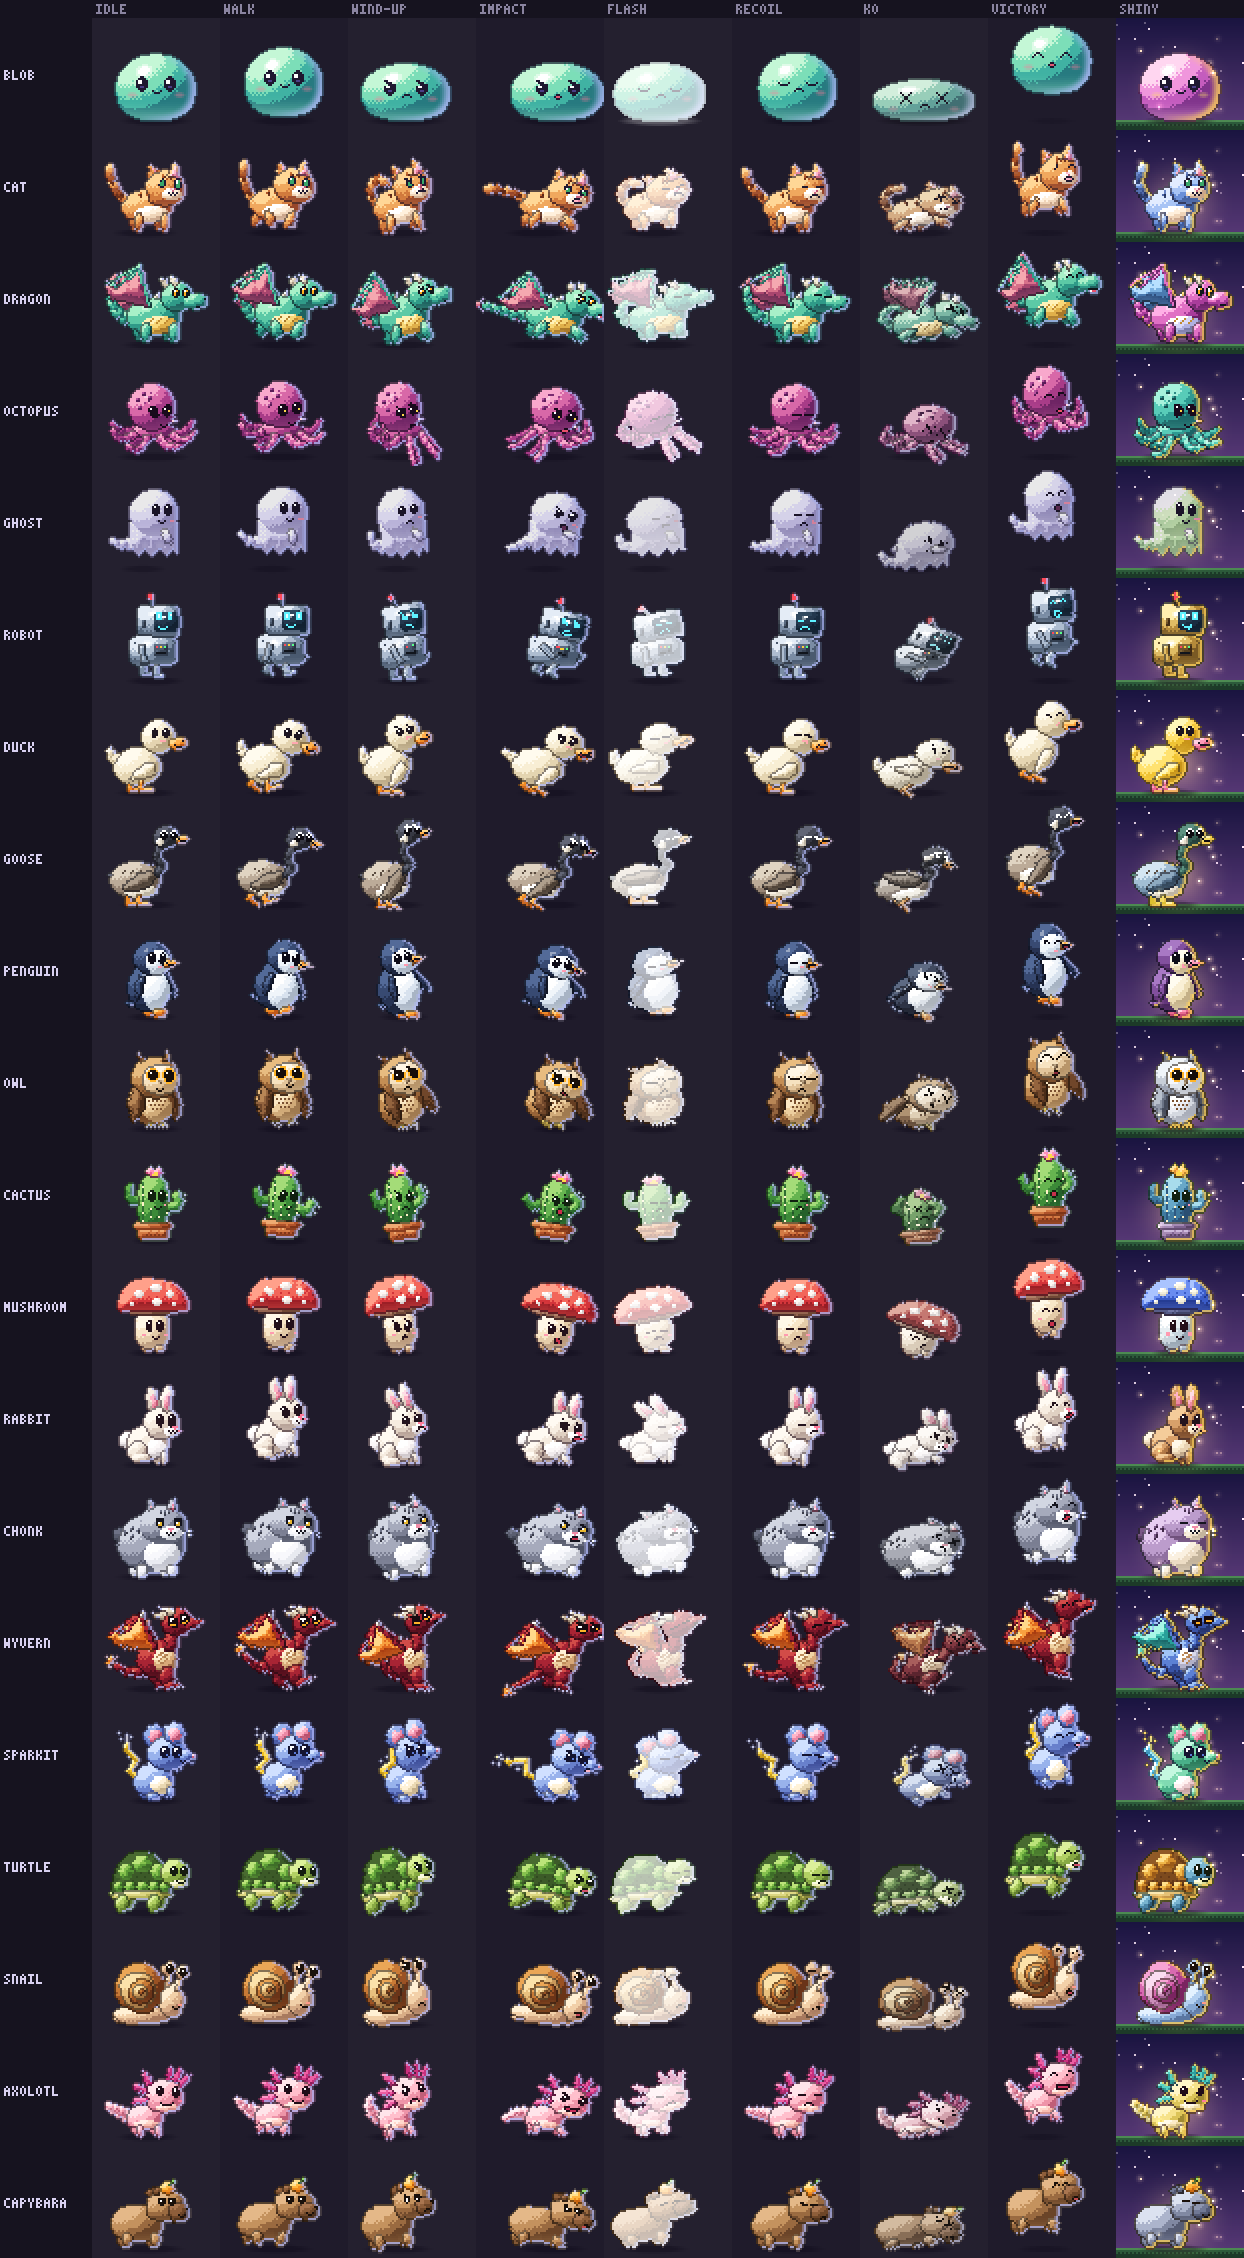
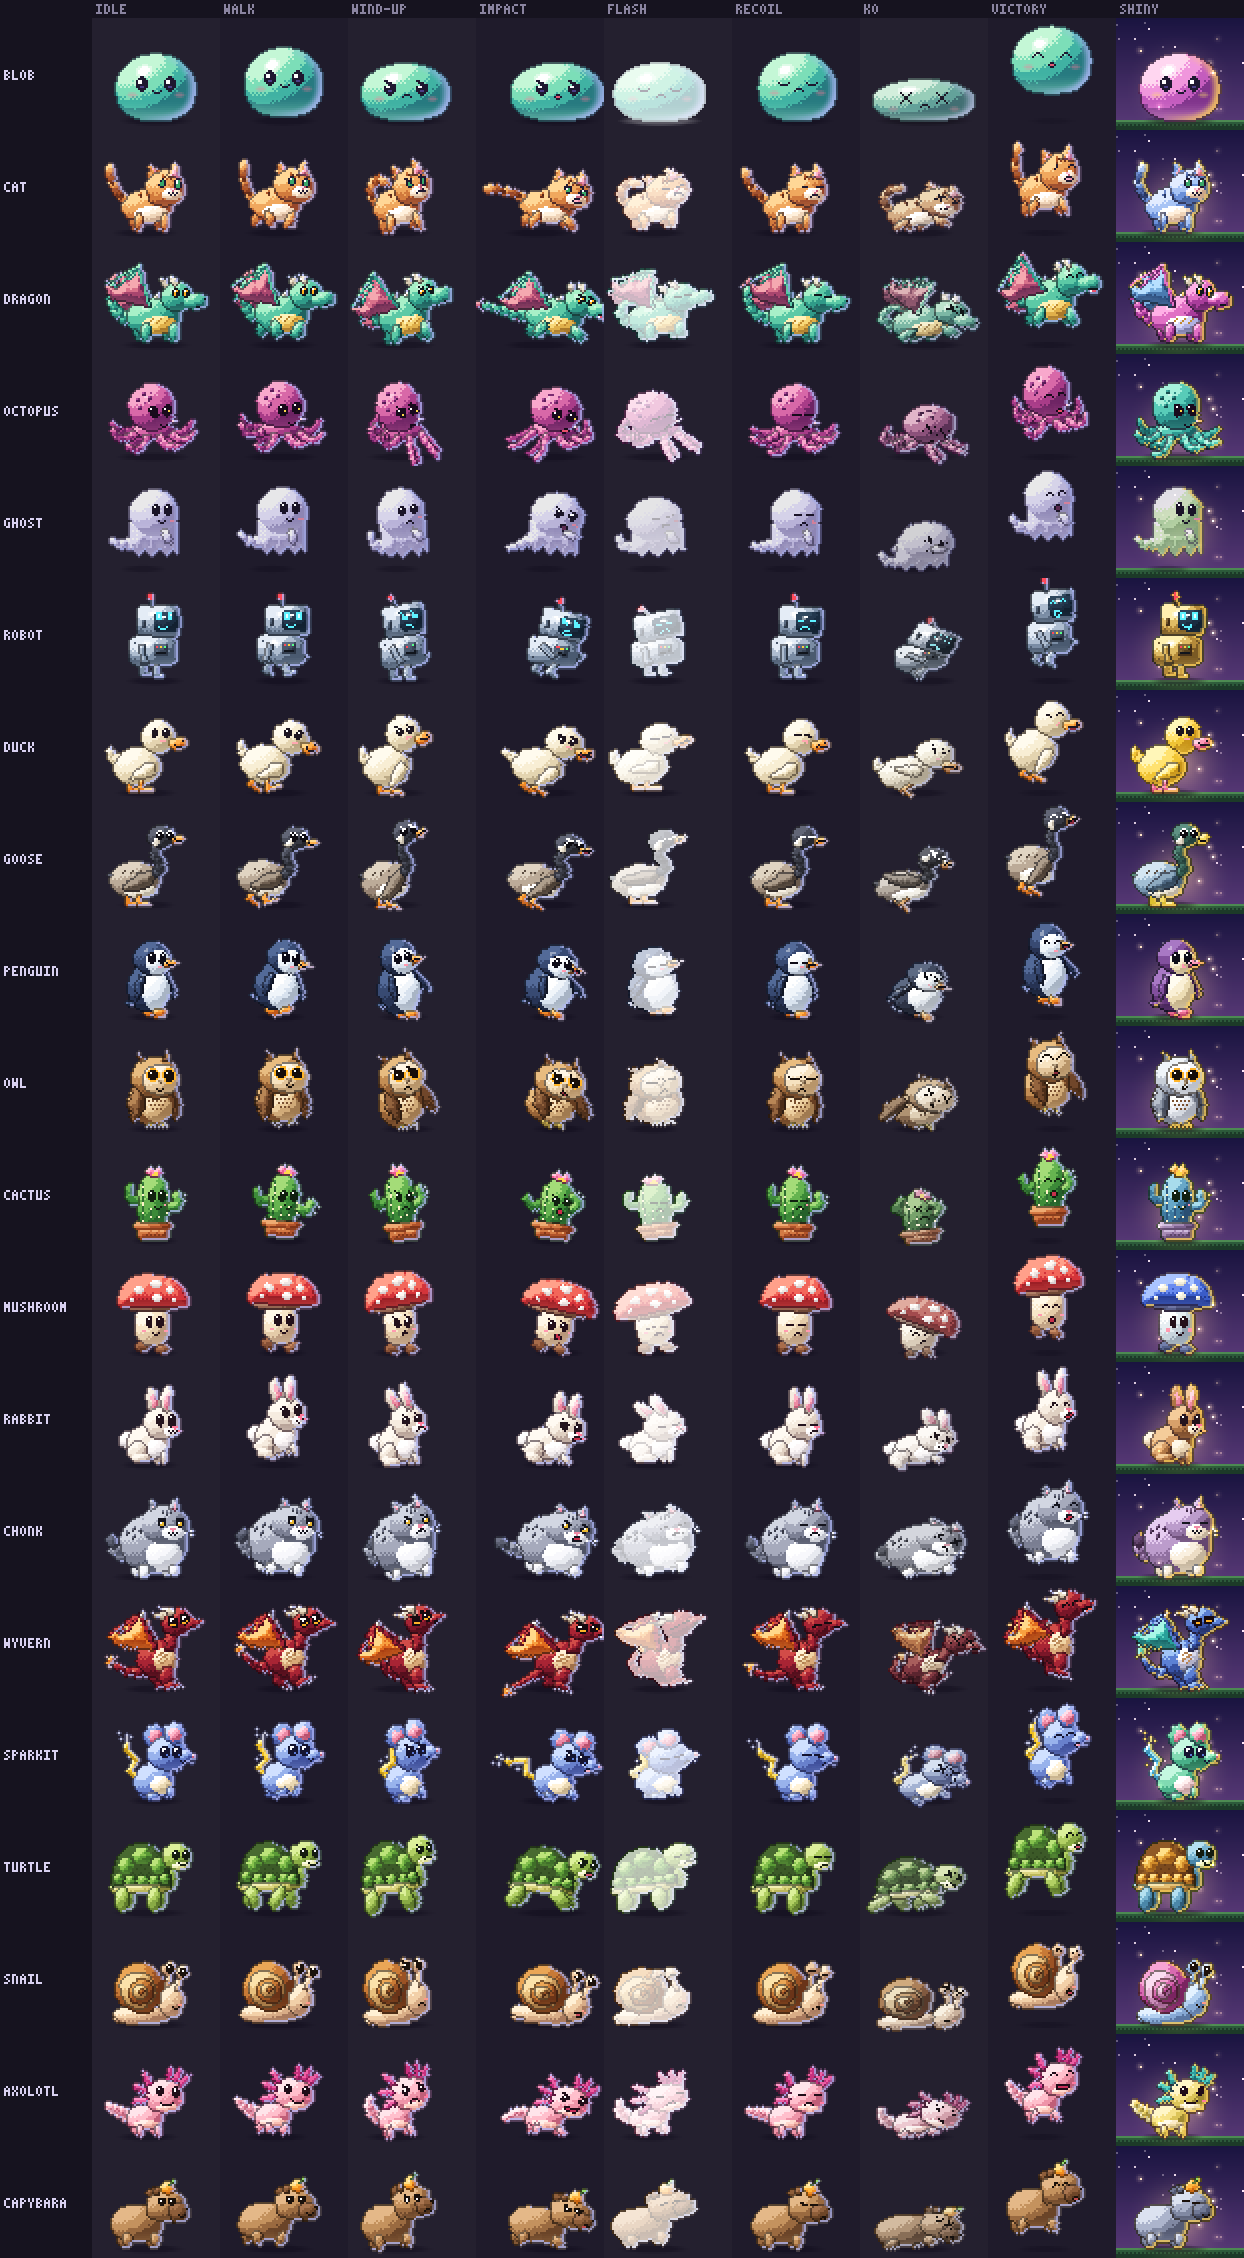
fix(gfx): H6 rig tuning — mushroom feet, chonk tail, turtle height, goose neck
- mushroom: brown feet that poke out either side of a raised stem
- chonk: a thick, dark-tipped tail curling up off the low back
- turtle: stands tortoise-tall on longer legs with its head up on a
  longer neck (top now y 16, in line with the roster)
- goose: a four-segment neck with a clear S-curve

All four stay on canvas through every animation. Golden hashes are
re-recorded for these four species only; the roster sheet is refreshed.

Claude-Session: https://claude.ai/code/session_01SiEL7EAerJXi1DTznVHZHE

diff --git a/server/gfx/species/goose.ts b/server/gfx/species/goose.ts
@@ -1,7 +1,7 @@
 /**
  * HD goose — the tall one (H6). A Canada-style goose facing right: a low
  * grey-brown body with a cream belly and a white tail patch, folded dark
- * wings, and a long S-curved neck built as a chain of three segments rising
+ * wings, and a long S-curved neck built as a chain of four segments rising
  * from the chest to a sooty head with a white chinstrap and an orange beak.
  * The neck segments are plain details (they hold the S); the head rides on
  * the last one with its pivot at the neck end, so it bobs from the throat.
@@ -32,7 +32,7 @@ const MOUTH: Record<string, Shape> = {
 const foot: Shape = { kind: "poly", pts: [[0.5, 0], [3, 0], [3, 3.5], [7, 3.6], [8, 6], [0, 6], [0, 3.5]], mat: "o" };
 /** Folded wing: shoulder at the front, primaries crossing over the tail. */
 const wing: Shape = { kind: "poly", pts: [[17, 0.5], [19.5, 3.5], [18, 7.5], [12, 10], [4, 9.5], [0, 7], [5, 4], [11, 1]], mat: "d" };
-const neckSeg = (rx: number): Shape => ({ kind: "ellipse", rx, ry: 4.3, p: 2.4, mat: "n" });
+const neckSeg = (rx: number): Shape => ({ kind: "ellipse", rx, ry: 4.2, p: 2.2, mat: "n" });
 
 export const GOOSE: RigDef = {
   id: "goose",
@@ -81,11 +81,15 @@ export const GOOSE: RigDef = {
     { name: "tail0", role: "tail", seg: 0, parent: "body", at: [4.5, 7], pivot: [5, 2.5], rot: -0.35, z: 0.3, group: "tail", shape: { kind: "poly", pts: [[0, 0.5], [6, 0], [6, 5], [1.5, 4]], mat: "n" } },
     { name: "tailW", role: "detail", parent: "tail0", at: [1, 3], pivot: [0, 0], z: 0.31, group: "tail", shape: { kind: "grid", rows: [".cccc", "ccccc"] } },
 
-    { name: "neck0", role: "detail", parent: "body", at: [23, 6], pivot: [2.6, 7.6], rot: 0.85, z: 2, group: "neck", shape: neckSeg(2.6) },
-    { name: "neck1", role: "detail", parent: "neck0", at: [2.6, 1.5], pivot: [2.1, 7.6], rot: -1.5, z: 2.01, group: "neck", shape: neckSeg(2.1) },
-    { name: "neck2", role: "detail", parent: "neck1", at: [2.1, 1.5], pivot: [2.1, 7.6], rot: 1.05, z: 2.02, group: "neck", shape: neckSeg(2.1) },
+    // The S: the base swells forward off the breast, the middle sweeps back,
+    // the top curls forward again under the head. Overlapping segments keep
+    // the curve smooth.
+    { name: "neck0", role: "detail", parent: "body", at: [22.5, 6.5], pivot: [3.1, 7.4], rot: 0.85, z: 2, group: "neck", shape: neckSeg(3.1) },
+    { name: "neck1", role: "detail", parent: "neck0", at: [3.1, 3.6], pivot: [2.8, 7.4], rot: -0.8, z: 2.01, group: "neck", shape: neckSeg(2.8) },
+    { name: "neck2", role: "detail", parent: "neck1", at: [2.8, 3.6], pivot: [2.6, 7.4], rot: -0.65, z: 2.02, group: "neck", shape: neckSeg(2.6) },
+    { name: "neck3", role: "detail", parent: "neck2", at: [2.6, 3.6], pivot: [2.5, 7.4], rot: 0.75, z: 2.03, group: "neck", shape: neckSeg(2.5) },
 
-    { name: "head", role: "head", parent: "neck2", at: [2.1, 2], pivot: [4.5, 10], rot: -0.4, z: 3, shape: { kind: "ellipse", rx: 7, ry: 5.8, mat: "n" } },
+    { name: "head", role: "head", parent: "neck3", at: [2.5, 2.4], pivot: [4.5, 10], rot: -0.2, z: 3, shape: { kind: "ellipse", rx: 7, ry: 5.8, mat: "n" } },
     { name: "chin", role: "detail", parent: "head", at: [1.5, 5.5], pivot: [0, 0], z: 3.02, group: "head", shape: { kind: "grid", rows: ["..cc", ".ccc", "cccc", "cccc", ".cc."] } },
     { name: "eyeF", role: "eye", parent: "head", at: [4, 2], pivot: [0, 0], z: 3.25, group: "head", shape: EYE.open, variants: EYE },
     { name: "eyeN", role: "eye", parent: "head", at: [9, 2], pivot: [0, 0], z: 3.25, group: "head", shape: EYE.open, variants: EYE },

diff --git a/server/gfx/species/chonk.ts b/server/gfx/species/chonk.ts
@@ -30,7 +30,7 @@ const MOUTH: Record<string, Shape> = {
 const stub: Shape = { kind: "ellipse", rx: 3, ry: 3, mat: "c" };
 const ear: Shape = { kind: "poly", pts: [[0, 6], [2.8, 0], [4.2, 0], [7, 6]], mat: "f" };
 const earInner: Shape = { kind: "poly", pts: [[0, 3.6], [1.7, 0], [3.4, 3.6]], mat: "q" };
-const tailSeg: Shape = { kind: "ellipse", rx: 3.2, ry: 3.6, mat: "f" };
+const tailSeg = (rx: number, mat = "f"): Shape => ({ kind: "ellipse", rx, ry: 3.8, mat });
 
 export const CHONK: RigDef = {
   id: "chonk",
@@ -61,7 +61,7 @@ export const CHONK: RigDef = {
     p: { ramp: ramp("#c8304a"), flat: true },
   },
   parts: [
-    { name: "body", role: "body", at: [30, 35], pivot: [17, 15], z: 1, group: "body", shape: { kind: "ellipse", rx: 17, ry: 15, mat: "f" } },
+    { name: "body", role: "body", at: [31, 35], pivot: [17, 15], z: 1, group: "body", shape: { kind: "ellipse", rx: 17, ry: 15, mat: "f" } },
     { name: "belly", role: "belly", parent: "body", at: [22, 21], pivot: [9.5, 7.5], z: 1.1, group: "body", shape: { kind: "ellipse", rx: 9.5, ry: 7.5, mat: "c" } },
     {
       name: "stripes",
@@ -79,8 +79,10 @@ export const CHONK: RigDef = {
     { name: "legBN", role: "legB", side: 1, parent: "body", at: [12, 26.5], pivot: [3, 1], z: 1.5, shape: stub },
     { name: "legFN", role: "legF", side: 1, parent: "body", at: [27, 26], pivot: [3, 1], z: 1.5, shape: stub },
 
-    { name: "tail0", role: "tail", seg: 0, parent: "body", at: [3.5, 16], pivot: [3.2, 5.5], rot: -0.75, z: 0.3, group: "tail", shape: tailSeg },
-    { name: "tail1", role: "tail", seg: 1, parent: "tail0", at: [3.2, 2], pivot: [3.2, 5.5], rot: 0.35, z: 0.31, group: "tail", shape: { kind: "ellipse", rx: 3, ry: 3.4, mat: "s" } },
+    // A thick, short tail: out from the low back, curling up, dark-tipped.
+    { name: "tail0", role: "tail", seg: 0, parent: "body", at: [3, 21], pivot: [3.6, 6], rot: -1.3, z: 0.3, group: "tail", shape: tailSeg(3.6) },
+    { name: "tail1", role: "tail", seg: 1, parent: "tail0", at: [3.6, 1.8], pivot: [3.3, 6], rot: 0.55, z: 0.31, group: "tail", shape: tailSeg(3.3) },
+    { name: "tail2", role: "tail", seg: 2, parent: "tail1", at: [3.3, 1.8], pivot: [3, 6], rot: 0.6, z: 0.32, group: "tail", shape: tailSeg(3, "s") },
 
     { name: "head", role: "head", parent: "body", at: [23, 12], pivot: [12, 15], z: 2, group: "body", shape: { kind: "ellipse", rx: 12, ry: 9, p: 2.2, mat: "f" } },
     { name: "forehead", role: "detail", parent: "head", at: [9.5, 1.5], pivot: [0, 0], z: 2.02, group: "body", shape: { kind: "grid", rows: ["s.s.s", "s.s.s", "..s.."] } },

diff --git a/server/gfx/species/mushroom.ts b/server/gfx/species/mushroom.ts
@@ -3,7 +3,7 @@
  * cap with white spots (the `head`, pivoting at the top of the stem so it
  * bobs and tips like a hat), a darker gill band peeking out under its rim,
  * and a cream stem that is the body. Like the ASCII buddy, the face sits on
- * the stem, under the cap; two tiny feet (`legB`) shuffle underneath.
+ * the stem, under the cap; two little brown feet (`legB`) poke out on either side and shuffle.
  */
 
 import type { RigDef, Shape } from "../rig.ts";
@@ -40,7 +40,8 @@ function dome(rx: number, ry: number, mat: string): Shape {
   return { kind: "poly", pts, mat };
 }
 
-const foot: Shape = { kind: "ellipse", rx: 3, ry: 2, mat: "f" };
+/** A little brown boot-foot, wider than tall. */
+const foot: Shape = { kind: "ellipse", rx: 3.8, ry: 2.4, p: 2.4, mat: "f" };
 
 export const MUSHROOM: RigDef = {
   id: "mushroom",
@@ -68,8 +69,8 @@ export const MUSHROOM: RigDef = {
       shiny: ramp("#2a2c48", "#3e4266", "#565c88", "#7076a4", "#8a90bc"),
     },
     f: {
-      ramp: ramp("#6a4a36", "#9a7254", "#c89e78", "#e4c49e", "#f6e0c0"),
-      shiny: ramp("#4a5464", "#6e7a8c", "#98a4b4", "#bcc6d2", "#dce4ec"),
+      ramp: ramp("#3a2016", "#5e3624", "#865036", "#a86c4a", "#c88c64"),
+      shiny: ramp("#262c44", "#3a4466", "#54608a", "#727eaa", "#949ec8"),
     },
     q: { ramp: ramp("#ff9ab0"), flat: true },
     k: { ramp: ramp("#24101a"), flat: true },
@@ -77,10 +78,10 @@ export const MUSHROOM: RigDef = {
     p: { ramp: ramp("#c8304a"), flat: true },
   },
   parts: [
-    { name: "body", role: "body", at: [30.5, 49], pivot: [8.5, 19], z: 1, shape: { kind: "ellipse", rx: 8.5, ry: 10, p: 2.8, mat: "c" } },
+    { name: "body", role: "body", at: [30.5, 47], pivot: [8.5, 19], z: 1, shape: { kind: "ellipse", rx: 8.5, ry: 10, p: 2.8, mat: "c" } },
 
-    { name: "footF", role: "legB", side: -1, parent: "body", at: [5.5, 17.5], pivot: [3, 0.5], z: 0.5, shade: 0.72, shape: foot },
-    { name: "footN", role: "legB", side: 1, parent: "body", at: [12, 18], pivot: [3, 0.5], z: 1.5, shape: foot },
+    { name: "footF", role: "legB", side: -1, parent: "body", at: [3.5, 19.2], pivot: [3.8, 0.6], z: 0.5, shade: 0.72, shape: foot },
+    { name: "footN", role: "legB", side: 1, parent: "body", at: [13.5, 19.6], pivot: [3.8, 0.6], z: 1.5, shape: foot },
 
     { name: "eyeF", role: "eye", parent: "body", at: [6.5, 8.5], pivot: [2, 3], z: 1.3, group: "body", shape: EYE.open, variants: EYE },
     { name: "eyeN", role: "eye", parent: "body", at: [12.5, 8.5], pivot: [2, 3], z: 1.3, group: "body", shape: EYE.open, variants: EYE },

diff --git a/server/gfx/hd.test.ts b/server/gfx/hd.test.ts
@@ -214,12 +214,12 @@ const GOLDEN: Record<string, number> = {
   "duck/hit": 3980710965,
   "duck/ko": 3979877501,
   "duck/victory": 3654243569,
-  "goose/idle": 3763054215,
-  "goose/walk": 2113543643,
-  "goose/attack": 2967186822,
-  "goose/hit": 61099340,
-  "goose/ko": 283098234,
-  "goose/victory": 3802061768,
+  "goose/idle": 2857236549,
+  "goose/walk": 4142727648,
+  "goose/attack": 938375235,
+  "goose/hit": 3373143931,
+  "goose/ko": 1871794491,
+  "goose/victory": 1555491228,
   "penguin/idle": 4111844983,
   "penguin/walk": 2262229409,
   "penguin/attack": 2536447876,
@@ -238,24 +238,24 @@ const GOLDEN: Record<string, number> = {
   "cactus/hit": 354092849,
   "cactus/ko": 276731027,
   "cactus/victory": 1693815847,
-  "mushroom/idle": 769548305,
-  "mushroom/walk": 831913696,
-  "mushroom/attack": 526704289,
-  "mushroom/hit": 1508991504,
-  "mushroom/ko": 1529252771,
-  "mushroom/victory": 2731222997,
+  "mushroom/idle": 3542232779,
+  "mushroom/walk": 2361918087,
+  "mushroom/attack": 1591562814,
+  "mushroom/hit": 2982404739,
+  "mushroom/ko": 2707750291,
+  "mushroom/victory": 391304224,
   "rabbit/idle": 359399226,
   "rabbit/walk": 1983880345,
   "rabbit/attack": 3082819017,
   "rabbit/hit": 1922170640,
   "rabbit/ko": 865926924,
   "rabbit/victory": 2396879212,
-  "chonk/idle": 4277298466,
-  "chonk/walk": 4161152387,
-  "chonk/attack": 4162381481,
-  "chonk/hit": 824699129,
-  "chonk/ko": 2076690605,
-  "chonk/victory": 605342145,
+  "chonk/idle": 1186316029,
+  "chonk/walk": 3919970811,
+  "chonk/attack": 3379616546,
+  "chonk/hit": 2321798795,
+  "chonk/ko": 136113689,
+  "chonk/victory": 501685535,
   "wyvern/idle": 2916203863,
   "wyvern/walk": 2904282668,
   "wyvern/attack": 912236319,
@@ -268,12 +268,12 @@ const GOLDEN: Record<string, number> = {
   "sparkit/hit": 3655663062,
   "sparkit/ko": 1394554962,
   "sparkit/victory": 3261424488,
-  "turtle/idle": 3255980698,
-  "turtle/walk": 251227320,
-  "turtle/attack": 1839498655,
-  "turtle/hit": 568255122,
-  "turtle/ko": 3730975470,
-  "turtle/victory": 195790446,
+  "turtle/idle": 1440407783,
+  "turtle/walk": 1452915838,
+  "turtle/attack": 442687426,
+  "turtle/hit": 3056600572,
+  "turtle/ko": 860182449,
+  "turtle/victory": 3890985337,
   "snail/idle": 2523927019,
   "snail/walk": 848768039,
   "snail/attack": 3845532182,

diff --git a/server/gfx/species/turtle.ts b/server/gfx/species/turtle.ts
@@ -68,7 +68,8 @@ const plates: PartDef[] = PLATES.map(([cx, cy, w, h], i) => ({
   shape: scute(w, h),
 }));
 
-const leg: Shape = { kind: "ellipse", rx: 3.3, ry: 4.6, p: 2.4, mat: "l" };
+/** Sturdy tortoise legs: it stands tall rather than sprawling. */
+const leg: Shape = { kind: "ellipse", rx: 3.4, ry: 6.4, p: 2.6, mat: "l" };
 
 export const TURTLE: RigDef = {
   id: "turtle",
@@ -102,7 +103,7 @@ export const TURTLE: RigDef = {
     p: { ramp: ramp("#d0506a"), flat: true },
   },
   parts: [
-    { name: "body", role: "body", at: [25, 43], pivot: [15, 22], z: 1, group: "body", shape: dome(30, 22) },
+    { name: "body", role: "body", at: [25, 39.4], pivot: [15, 22], z: 1, group: "body", shape: dome(30, 22) },
     ...plates,
     { name: "rim", role: "belly", parent: "body", at: [15, 22], pivot: [16.5, 2.6], z: 1.2, shape: { kind: "ellipse", rx: 16.5, ry: 2.6, mat: "r" } },
 
@@ -113,8 +114,8 @@ export const TURTLE: RigDef = {
 
     { name: "tail0", role: "tail", seg: 0, parent: "body", at: [2, 20.5], pivot: [4, 1.5], rot: -0.25, z: 0.4, shape: { kind: "poly", pts: [[0, 2], [4, 0], [4.5, 3.5]], mat: "l" } },
 
-    { name: "head", role: "head", parent: "body", at: [25, 15.5], pivot: [1, 11], z: 2, shape: { kind: "ellipse", rx: 7.5, ry: 6.6, p: 2.1, mat: "l" } },
-    { name: "neck", role: "detail", parent: "head", at: [1, 11], pivot: [6, 3], z: 0.8, group: "head", shape: { kind: "ellipse", rx: 6, ry: 4, mat: "l" } },
+    { name: "head", role: "head", parent: "body", at: [26, 10.5], pivot: [1, 11], z: 2, shape: { kind: "ellipse", rx: 7.5, ry: 6.6, p: 2.1, mat: "l" } },
+    { name: "neck", role: "detail", parent: "head", at: [1.5, 10], pivot: [4.6, 2], rot: -0.35, z: 0.8, group: "head", shape: { kind: "ellipse", rx: 4.6, ry: 8, mat: "l" } },
     { name: "chin", role: "snout", parent: "head", at: [10, 11.2], pivot: [4.5, 2], z: 2.05, group: "head", shape: { kind: "ellipse", rx: 4.5, ry: 2, mat: "c" } },
     { name: "eyeF", role: "eye", parent: "head", at: [7, 5.5], pivot: [2, 2.5], z: 2.25, group: "head", shape: EYE.open, variants: EYE },
     { name: "eyeN", role: "eye", parent: "head", at: [12.5, 5.5], pivot: [2, 2.5], z: 2.25, group: "head", shape: EYE.open, variants: EYE },

diff --git a/docs/game-feel/hd-overhaul/h6-roster.md b/docs/game-feel/hd-overhaul/h6-roster.md
@@ -119,6 +119,18 @@ proportions; `full` comes out 11–13 rows.
 
 On the ASCII path, `pick`, `hunt` and `play` are exactly as before.
 
+### Tuning pass
+
+After the first review, four rigs got a second pass:
+
+- **Mushroom:** brown feet that poke out on either side of a raised stem.
+- **Chonk:** a thick, dark-tipped tail that curls up off the low back.
+- **Turtle:** stands tortoise-tall on longer legs, with its head up on a
+  longer neck. Its top is now at y 16, in line with the rest.
+- **Goose:** a four-segment neck with a clear S.
+
+A sweep of every animation keeps all four on the canvas.
+
 ## Tests
 
 - `server/gfx/hd.test.ts`:
@@ -155,9 +167,4 @@ On the ASCII path, `pick`, `hunt` and `play` are exactly as before.
 - The hatch plays inside `pick` and `hunt`. First-run onboarding (`install`)
   could use it too.
 - `gfx-demo` could get keys that play the hatch and the loot reveal.
-- Rig tuning:
-  - the mushroom's feet barely show
-  - the chonk's tail is short
-  - the turtle is shorter than the rest (top at y 20)
-  - the goose's S-curve is mild
 - Everything left over from H2–H5 still stands (see NEXT.md).

diff --git a/docs/game-feel/hd-overhaul/NEXT.md b/docs/game-feel/hd-overhaul/NEXT.md
@@ -46,8 +46,7 @@ The roadmap (H0–H6) is done. Pick from the loose ends; good candidates:
 ## Loose ends
 
 - From H6: foe cut-ins; the hatch in onboarding (`install`); `gfx-demo`
-  keys for the hatch and loot; rig tuning (mushroom feet, chonk tail,
-  turtle height, goose neck curve).
+  keys for the hatch and loot.
 
 - From H2: hats and gear on HD rigs; kitty native animation for the fight
   stage; a smaller HD stage for terminals under 66 × 34.
